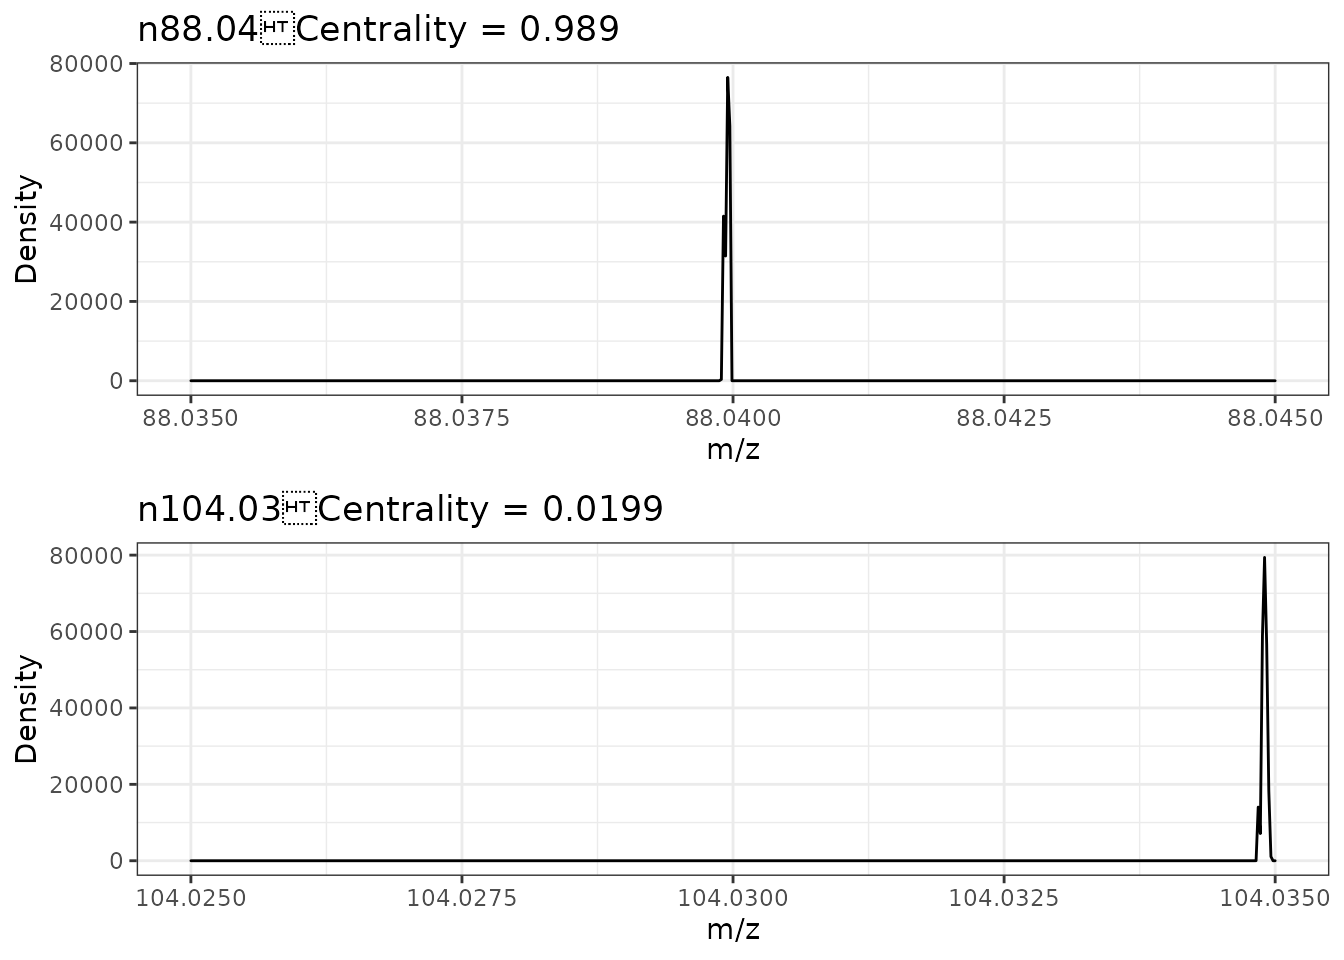
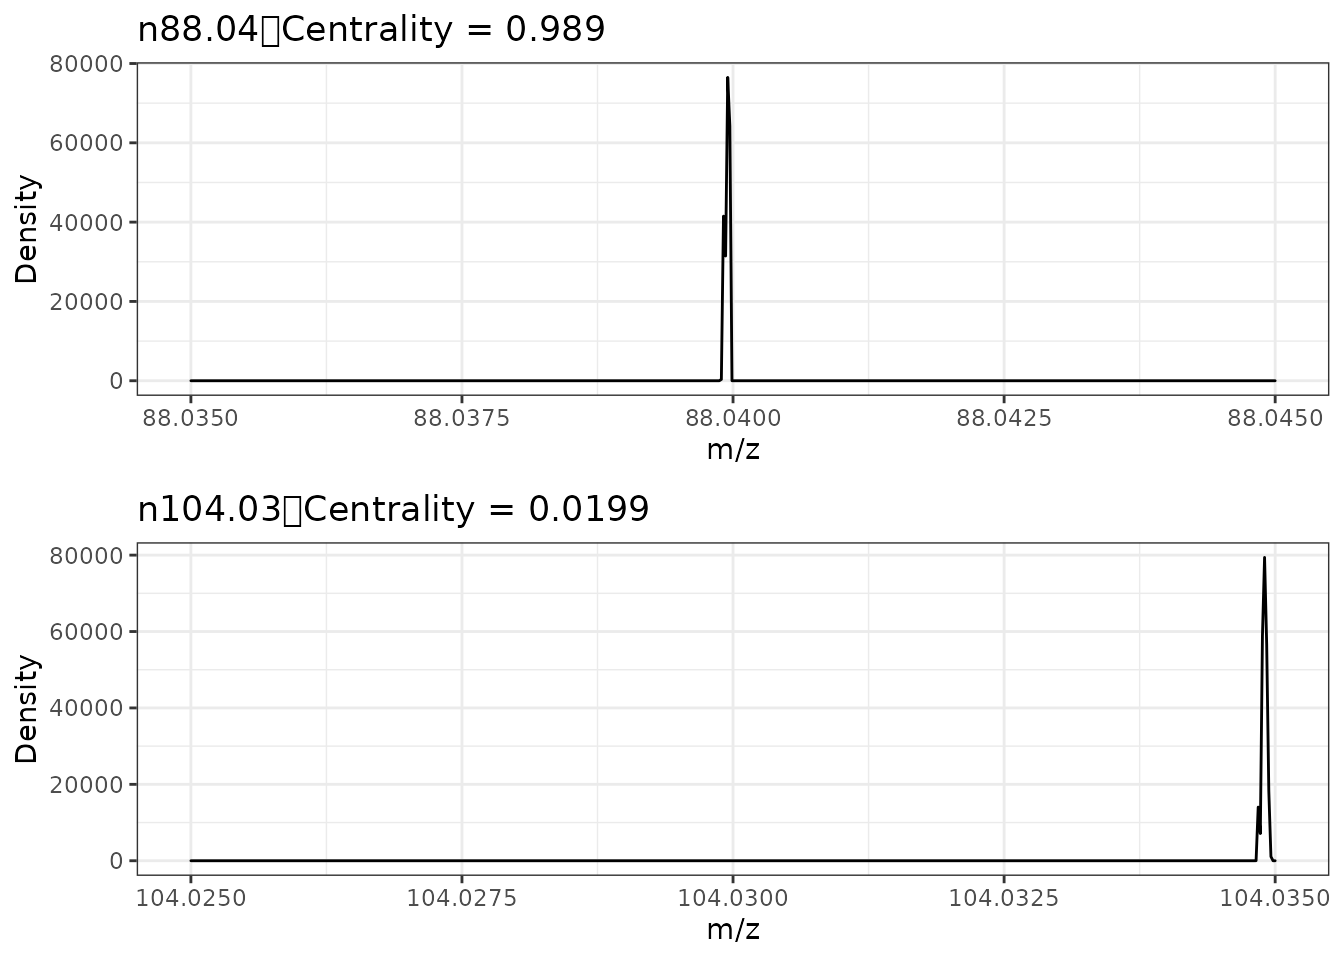
updated pkgdown site

Changed region(s): [[0.2188, 0.5, 0.5, 0.5625], [0.1875, 0.0, 0.3438, 0.0625], [0.375, 0.0, 0.4688, 0.0625]]

diff --git a/docs/reference/singleSample.html b/docs/reference/singleSample.html
@@ -72,7 +72,7 @@
       </button>
       <span class="navbar-brand">
         <a class="navbar-link" href="../index.html">binneR</a>
-        <span class="version label label-default" data-toggle="tooltip" data-placement="bottom" title="Released version">2.5.3</span>
+        <span class="version label label-default" data-toggle="tooltip" data-placement="bottom" title="Released version">2.5.4</span>
       </span>
     </div>
 
@@ -161,7 +161,7 @@ and <code><a href='https://rdrr.io/pkg/future/man/plan.html'>?future::plan</a></
 <span class='co'># plan(future::multisession,workers = 2)</span>
 
 <span class='va'>bd</span> <span class='op'>&lt;-</span> <span class='fu'>singleSample</span><span class='op'>(</span><span class='va'>file_path</span><span class='op'>)</span>
-</div><div class='output co'>#&gt; <span class='message'><span style='color: #0000BB;'>binneR</span><span> </span><span style='color: #BB0000;'>v2.5.3</span><span> Wed Mar 24 15:42:44 2021</span></div><div class='output co'>#&gt; <span class='message'>________________________________________________________________________________</span></div><div class='output co'>#&gt; <span class='message'>Scans: 5:13 </span></div><div class='output co'>#&gt; <span class='message'>________________________________________________________________________________</span></div><div class='output co'>#&gt; <span class='message'>Reading raw data</span></div><div class='output co'>#&gt; <span class='message'>Calculating bins</span></div><div class='output co'>#&gt; <span class='message'>Removing single scan events</span></div><div class='output co'>#&gt; <span class='message'>Calculating intensity totals</span></div><div class='output co'>#&gt; <span class='message'>Calculating bin measures</span></div><div class='output co'>#&gt; <span class='message'>Calculating accurate m/z</span></div><div class='output co'>#&gt; <span class='message'>Building intensity matrix</span></div><div class='output co'>#&gt; </div><div class='output co'>#&gt; <span class='message'></span><span style='color: #00BB00;'>Completed! </span><span>[2S]</span></div></span></pre>
+</div><div class='output co'>#&gt; <span class='message'><span style='color: #0000BB;'>binneR</span> <span style='color: #BB0000;'>v2.5.4</span> Tue Aug  3 12:36:08 2021</span></div><div class='output co'>#&gt; <span class='message'>________________________________________________________________________________</span></div><div class='output co'>#&gt; <span class='message'>Scans: 5:13 </span></div><div class='output co'>#&gt; <span class='message'>________________________________________________________________________________</span></div><div class='output co'>#&gt; <span class='message'>Reading raw data</span></div><div class='output co'>#&gt; <span class='message'>Calculating bins</span></div><div class='output co'>#&gt; <span class='message'>Removing single scan events</span></div><div class='output co'>#&gt; <span class='message'>Calculating intensity totals</span></div><div class='output co'>#&gt; <span class='message'>Calculating bin measures</span></div><div class='output co'>#&gt; <span class='message'>Calculating accurate m/z</span></div><div class='output co'>#&gt; <span class='message'>Building intensity matrix</span></div><div class='output co'>#&gt; </div><div class='output co'>#&gt; <span class='message'><span style='color: #00BB00;'>Completed! </span>[1.1S]</span></div></pre>
   </div>
   <div class="col-md-3 hidden-xs hidden-sm" id="pkgdown-sidebar">
     <nav id="toc" data-toggle="toc" class="sticky-top">

diff --git a/docs/news/index.html b/docs/news/index.html
@@ -71,7 +71,7 @@
       </button>
       <span class="navbar-brand">
         <a class="navbar-link" href="../index.html">binneR</a>
-        <span class="version label label-default" data-toggle="tooltip" data-placement="bottom" title="Released version">2.5.3</span>
+        <span class="version label label-default" data-toggle="tooltip" data-placement="bottom" title="Released version">2.5.4</span>
       </span>
     </div>
 
@@ -117,6 +117,14 @@
       <small>Source: <a href='https://github.com/aberHRML/binneR/blob/master/NEWS.md'><code>NEWS.md</code></a></small>
     </div>
 
+    <div id="binner-254" class="section level1">
+<h1 class="page-header" data-toc-text="2.5.4">
+<a href="#binner-254" class="anchor"></a>binneR 2.5.4<small> Unreleased </small>
+</h1>
+<ul>
+<li>Removed the <code>LazyData</code> field from the DESCRIPTION file.</li>
+</ul>
+</div>
     <div id="binner-253" class="section level1">
 <h1 class="page-header" data-toc-text="2.5.3">
 <a href="#binner-253" class="anchor"></a>binneR 2.5.3<small> Unreleased </small>
@@ -185,7 +193,7 @@
 <li><p>The pipe (<code><a href="https://magrittr.tidyverse.org/reference/pipe.html">%&gt;%</a></code>) from the <a href="https://magrittr.tidyverse.org/"><code>magrittr</code></a> package now re-exported.</p></li>
 <li><p>Unit test coverage now increased to 100%.</p></li>
 <li><p>Updated function documentation examples.</p></li>
-<li><p>Parallel processing in <code>binneR</code> is now implemented using the <a href="https://cran.r-project.org/web/packages/future/index.html"><code>future</code></a> package. Information on how this can now be used is available in the usage vignette.</p></li>
+<li><p>Parallel processing in <code>binneR</code> is now implemented using the <a href="https://cran.r-project.org/package=future"><code>future</code></a> package. Information on how this can now be used is available in the usage vignette.</p></li>
 <li><p><code><a href="https://rdrr.io/pkg/future/man/plan.html">plan()</a></code> from the <a href="https://cran.r-project.org/web/packages/future/index.html"><code>future</code></a> package is now re-exported.</p></li>
 </ul>
 </div>

diff --git a/docs/articles/binneR.html b/docs/articles/binneR.html
@@ -31,7 +31,7 @@
       </button>
       <span class="navbar-brand">
         <a class="navbar-link" href="../index.html">binneR</a>
-        <span class="version label label-default" data-toggle="tooltip" data-placement="bottom" title="Released version">2.5.3</span>
+        <span class="version label label-default" data-toggle="tooltip" data-placement="bottom" title="Released version">2.5.4</span>
       </span>
     </div>
 
@@ -70,7 +70,7 @@
 
       
 
-      </header><script src="binneR_files/header-attrs-2.7/header-attrs.js"></script><div class="row">
+      </header><script src="binneR_files/header-attrs-2.9/header-attrs.js"></script><div class="row">
   <div class="col-md-9 contents">
     <div class="page-header toc-ignore">
       <h1 data-toc-skip>binneR</h1>
@@ -232,7 +232,7 @@
 <p>Spectral binning can then be performed with the following.</p>
 <div class="sourceCode" id="cb17"><pre class="downlit sourceCode r">
 <code class="sourceCode R"><span class="va">analysis</span> <span class="op">&lt;-</span> <span class="fu"><a href="../reference/binneRlyse.html">binneRlyse</a></span><span class="op">(</span><span class="va">files</span>,<span class="va">info</span>,<span class="va">parameters</span><span class="op">)</span></code></pre></div>
-<pre><code>## binneR v2.5.3 Wed Mar 24 15:43:53 2021</code></pre>
+<pre><code>## binneR v2.5.4 Tue Aug  3 12:36:56 2021</code></pre>
 <pre><code>## ________________________________________________________________________________</code></pre>
 <pre><code>## Scans: 5:13 
 ## Class: class</code></pre>
@@ -246,10 +246,10 @@
 <pre><code>## Building intensity matrix</code></pre>
 <pre><code>## Gathering file headers</code></pre>
 <pre><code>## </code></pre>
-<pre><code>## Completed! [1M 11.2S]</code></pre>
+<pre><code>## Completed! [45S]</code></pre>
 <pre><code>## 
-## binneR v2.5.3
-## Wed Mar 24 15:43:53 2021
+## binneR v2.5.4
+## Tue Aug  3 12:36:56 2021
 ## Samples: 68
 ## n: 7828 features
 ## p: 9406 features

diff --git a/docs/articles/binneR_files/header-attrs-2.9/header-attrs.js b/docs/articles/binneR_files/header-attrs-2.9/header-attrs.js
@@ -1,0 +1,12 @@
+// Pandoc 2.9 adds attributes on both header and div. We remove the former (to
+// be compatible with the behavior of Pandoc < 2.8).
+document.addEventListener('DOMContentLoaded', function(e) {
+  var hs = document.querySelectorAll("div.section[class*='level'] > :first-child");
+  var i, h, a;
+  for (i = 0; i < hs.length; i++) {
+    h = hs[i];
+    if (!/^h[1-6]$/i.test(h.tagName)) continue;  // it should be a header h1-h6
+    a = h.attributes;
+    while (a.length > 0) h.removeAttribute(a[0].name);
+  }
+});

diff --git a/docs/reference/reexports.html b/docs/reference/reexports.html
@@ -79,7 +79,7 @@ below to see their documentation.
       </button>
       <span class="navbar-brand">
         <a class="navbar-link" href="../index.html">binneR</a>
-        <span class="version label label-default" data-toggle="tooltip" data-placement="bottom" title="Released version">2.5.3</span>
+        <span class="version label label-default" data-toggle="tooltip" data-placement="bottom" title="Released version">2.5.4</span>
       </span>
     </div>
 

diff --git a/docs/reference/Binalysis-class.html b/docs/reference/Binalysis-class.html
@@ -73,7 +73,7 @@ mass information." />
       </button>
       <span class="navbar-brand">
         <a class="navbar-link" href="../index.html">binneR</a>
-        <span class="version label label-default" data-toggle="tooltip" data-placement="bottom" title="Released version">2.5.3</span>
+        <span class="version label label-default" data-toggle="tooltip" data-placement="bottom" title="Released version">2.5.4</span>
       </span>
     </div>
 

diff --git a/docs/reference/plotChromatogram.html b/docs/reference/plotChromatogram.html
@@ -73,7 +73,7 @@ Binalysis object." />
       </button>
       <span class="navbar-brand">
         <a class="navbar-link" href="../index.html">binneR</a>
-        <span class="version label label-default" data-toggle="tooltip" data-placement="bottom" title="Released version">2.5.3</span>
+        <span class="version label label-default" data-toggle="tooltip" data-placement="bottom" title="Released version">2.5.4</span>
       </span>
     </div>
 

diff --git a/docs/reference/plotChromFromFile.html b/docs/reference/plotChromFromFile.html
@@ -73,7 +73,7 @@ file paths." />
       </button>
       <span class="navbar-brand">
         <a class="navbar-link" href="../index.html">binneR</a>
-        <span class="version label label-default" data-toggle="tooltip" data-placement="bottom" title="Released version">2.5.3</span>
+        <span class="version label label-default" data-toggle="tooltip" data-placement="bottom" title="Released version">2.5.4</span>
       </span>
     </div>
 

diff --git a/docs/articles/index.html b/docs/articles/index.html
@@ -71,7 +71,7 @@
       </button>
       <span class="navbar-brand">
         <a class="navbar-link" href="../index.html">binneR</a>
-        <span class="version label label-default" data-toggle="tooltip" data-placement="bottom" title="Released version">2.5.3</span>
+        <span class="version label label-default" data-toggle="tooltip" data-placement="bottom" title="Released version">2.5.4</span>
       </span>
     </div>
 

diff --git a/docs/reference/BinParameters-class.html b/docs/reference/BinParameters-class.html
@@ -72,7 +72,7 @@
       </button>
       <span class="navbar-brand">
         <a class="navbar-link" href="../index.html">binneR</a>
-        <span class="version label label-default" data-toggle="tooltip" data-placement="bottom" title="Released version">2.5.3</span>
+        <span class="version label label-default" data-toggle="tooltip" data-placement="bottom" title="Released version">2.5.4</span>
       </span>
     </div>
 

diff --git a/docs/reference/binParameters.html b/docs/reference/binParameters.html
@@ -72,7 +72,7 @@
       </button>
       <span class="navbar-brand">
         <a class="navbar-link" href="../index.html">binneR</a>
-        <span class="version label label-default" data-toggle="tooltip" data-placement="bottom" title="Released version">2.5.3</span>
+        <span class="version label label-default" data-toggle="tooltip" data-placement="bottom" title="Released version">2.5.4</span>
       </span>
     </div>
 

diff --git a/docs/reference/binneRlyse.html b/docs/reference/binneRlyse.html
@@ -72,7 +72,7 @@
       </button>
       <span class="navbar-brand">
         <a class="navbar-link" href="../index.html">binneR</a>
-        <span class="version label label-default" data-toggle="tooltip" data-placement="bottom" title="Released version">2.5.3</span>
+        <span class="version label label-default" data-toggle="tooltip" data-placement="bottom" title="Released version">2.5.4</span>
       </span>
     </div>
 
